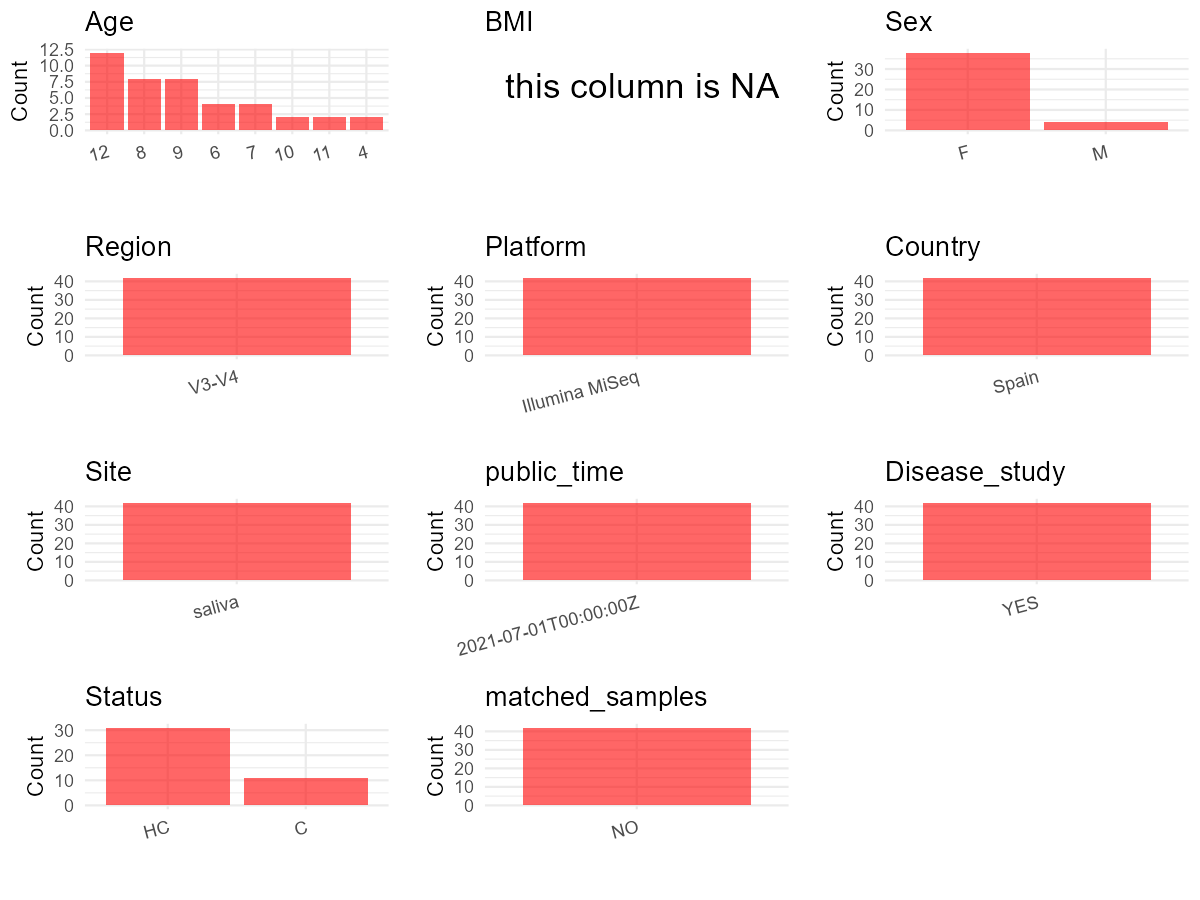
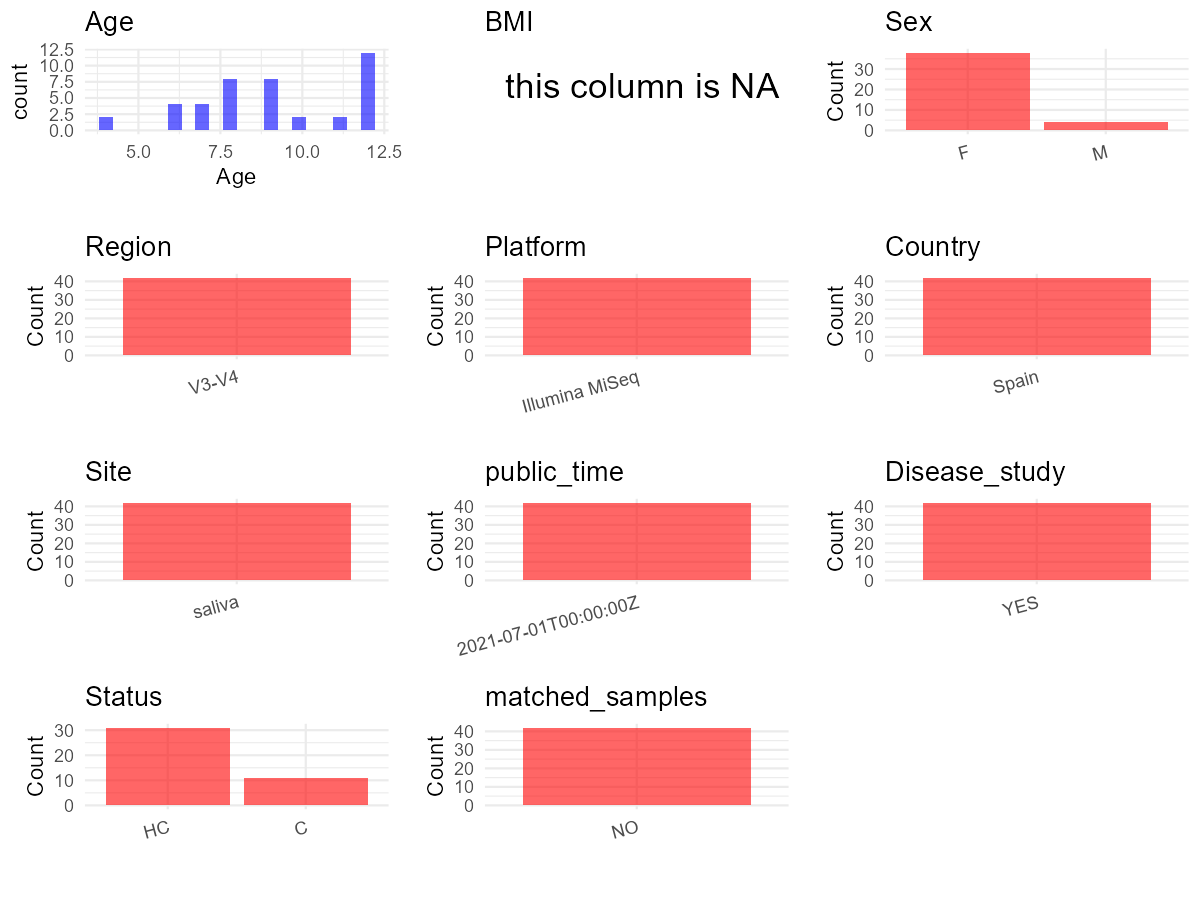
upload files for PRJNA643173

Changed region(s): [[0.0617, 0.0622, 0.3392, 0.2178], [0.0, 0.0622, 0.0308, 0.1244]]

diff --git a/data/projects/PRJNA643173/metadata_curation.md b/data/projects/PRJNA643173/metadata_curation.md
@@ -130,7 +130,7 @@ metadata <- data.frame(
   BioProject = initial_meta$BioProject,
   Run = initial_meta$Run,
   sample_name = initial_meta$isolation_source,
-  #Age = NA,
+  Age = NA_real_,
   BMI = NA,
   #Sex = NA,
   Region = "V3-V4",
@@ -150,17 +150,27 @@ metadata <- metadata %>%
   ))
 metadata <- metadata %>%
   mutate(Age = case_when(
-    grepl("1A|1B|9A|9B|12A|12B", sample_name) ~ "12",
-    grepl("2A|2B|13A|13B", sample_name) ~ "7",
-    grepl("3A|3B|7A|7B|15A|15B", sample_name) ~ "8",
-    grepl("4A|4B", sample_name) ~ "6",
-    grepl("5A|5B", sample_name) ~ "11",
-    grepl("6A|6B|10A|10B|11A|11B|16A|16B|18A|18B", sample_name) ~ "9",
-    grepl("8A|8B", sample_name) ~ "10",
-    grepl("14A|14B|19A|19B|20A|20B", sample_name) ~ "4",
-    grepl("17A|17B|21A|21B", sample_name) ~ "5"
+    grepl("1A|1B|9A|9B|12A|12B", sample_name) ~ 12,
+    grepl("2A|2B|13A|13B", sample_name) ~ 7,
+    grepl("3A|3B|7A|7B|15A|15B", sample_name) ~ 8,
+    grepl("4A|4B", sample_name) ~ 6,
+    grepl("5A|5B", sample_name) ~ 11,
+    grepl("6A|6B|10A|10B|11A|11B|16A|16B|18A|18B", sample_name) ~ 9,
+    grepl("8A|8B", sample_name) ~ 10,
+    grepl("14A|14B|19A|19B|20A|20B", sample_name) ~ 4,
+    grepl("17A|17B|21A|21B", sample_name) ~ 5
   ))
+print(paste("Age的数据类型:", class(metadata$Age)))
 ```
+
+    ## [1] "Age的数据类型: numeric"
+
+``` r
+print(summary(metadata$Age))
+```
+
+    ##    Min. 1st Qu.  Median    Mean 3rd Qu.    Max. 
+    ##   4.000   8.000   9.000   9.095  12.000  12.000
 
 # Step 3: Manually Add Information from the Publication
 
